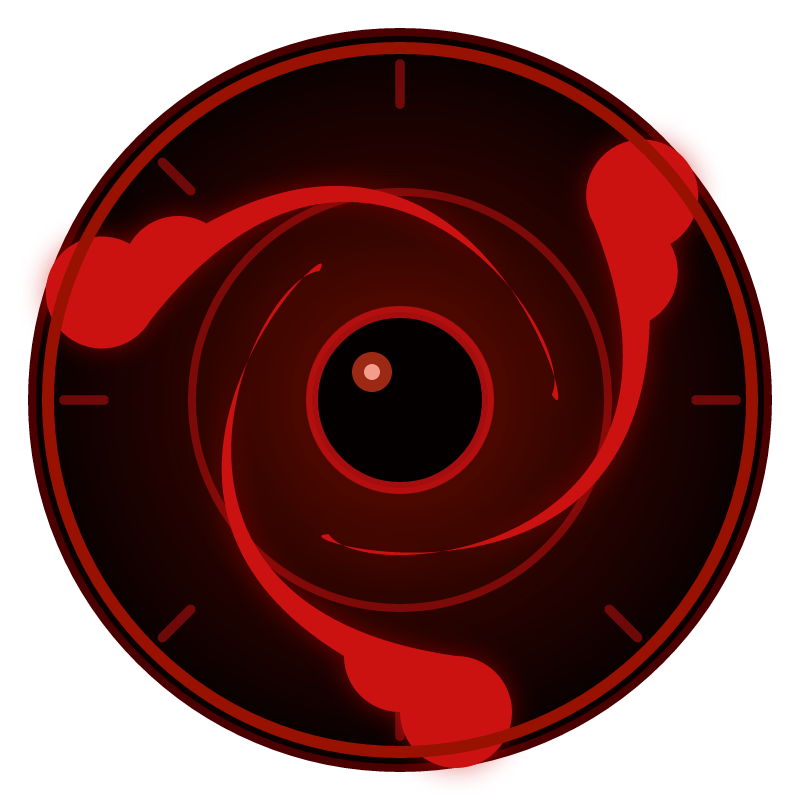
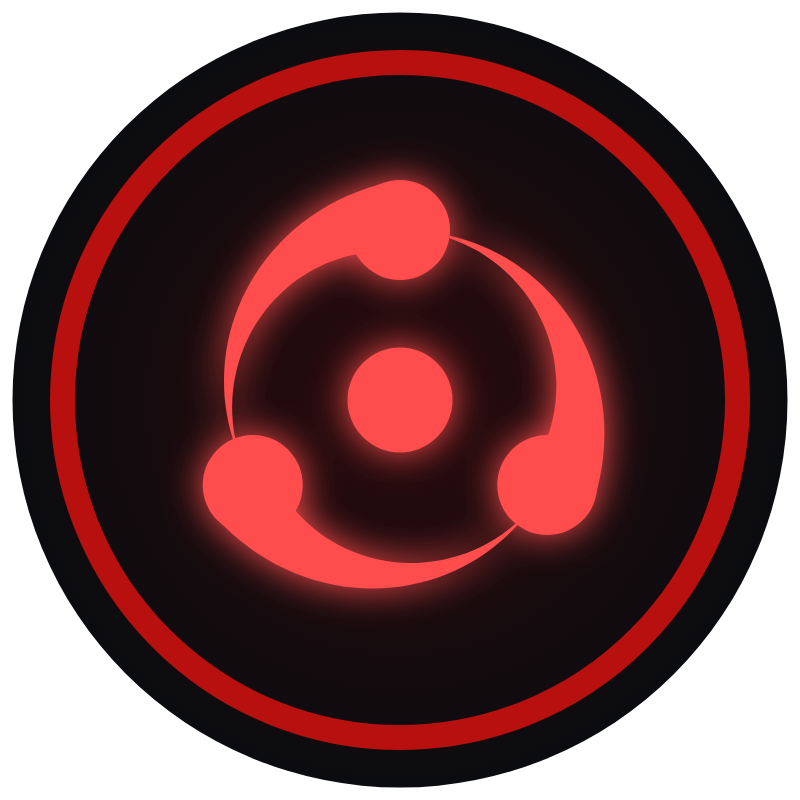
feat: the SoMi mark in the skathio family style
The eye is redrawn as a vector master, site/brand/somi-mark.svg: three tomoe sweeping around the pupil, glowing in SoMi's red (#ff4d4d) in a dark disc with a deep red ring (#b80f0f), the anatomy the other skathio marks share. Every PNG is rendered from it at its exact size under the same names (site icons, the header and hero logo, the plugin icon, the GitHub and homepage icon), so no code changes. site/README.md's Brand section describes the master and how to render the sizes.

Claude-Session: https://claude.ai/code/session_01UvKpmv3rzbh6sJ3ikqRtiU

diff --git a/site/README.md b/site/README.md
@@ -46,8 +46,10 @@ build and tests in `ci.yml`'s `site` job, without deploying.
 
 ## Brand
 
-[`brand/somi-icon-800.png`](brand/somi-icon-800.png) is the master icon (the repository's GitHub
-icon; no vector version exists). Every size the page uses is a straight downscale of it, committed:
+[`brand/somi-mark.svg`](brand/somi-mark.svg) is the master: the SoMi eye in the skathio family style
+(a dark disc, a deep red ring, three tomoe and the pupil glowing red). Every PNG is rendered from it at
+its exact size, committed: [`brand/somi-icon-800.png`](brand/somi-icon-800.png) (the repository's GitHub
+icon and the homepage card), `.claude-plugin/icon.png` (800, the plugin's icon) and these:
 
 | File | Size | Used for |
 |---|---|---|
@@ -58,8 +60,8 @@ icon; no vector version exists). Every size the page uses is a straight downscal
 | `src/assets/somi-icon.png` | 480 | the header and hero logo (shown at up to 240 px, so sharp at 2×) |
 
 The accent colour is the icon's red (`#cc1111`), darkened to `#b80f0f` on the light theme for text
-contrast. When the icon changes, replace the master and regenerate the sizes with any image tool
-(Lanczos downscale, PNG); `check-dist` fails a build without a favicon or with a preview image the
+contrast. When the icon changes, edit the master and render each size from it with a headless
+browser (transparent background; the apple-touch icon on the dark canvas `#101216`); `check-dist` fails a build without a favicon or with a preview image the
 build did not emit.
 
 ## Rules the build enforces

diff --git a/CHANGELOG.md b/CHANGELOG.md
@@ -8,6 +8,7 @@ Format: [Keep a Changelog](https://keepachangelog.com/en/1.1.0/) — versioning:
 
 ### Changed
 
+- **The SoMi mark in the skathio family style.** The eye is redrawn as a vector, `site/brand/somi-mark.svg`: three tomoe sweeping around the pupil, glowing in SoMi's red in a dark disc with a deep red ring, matching the other skathio marks. Every icon size, the plugin icon and the homepage card image are rendered from it.
 - **A page-only site deploy needs the production approval.** Running `site.yml` by hand now waits at a `gate` job for the `production` Environment's owner approval, the same single approval a release needs at `publish`. A release still asks once: its page deploy runs after `publish` and skips the gate. A cancelled run now also stops the page deploy.
 
 ### Added
